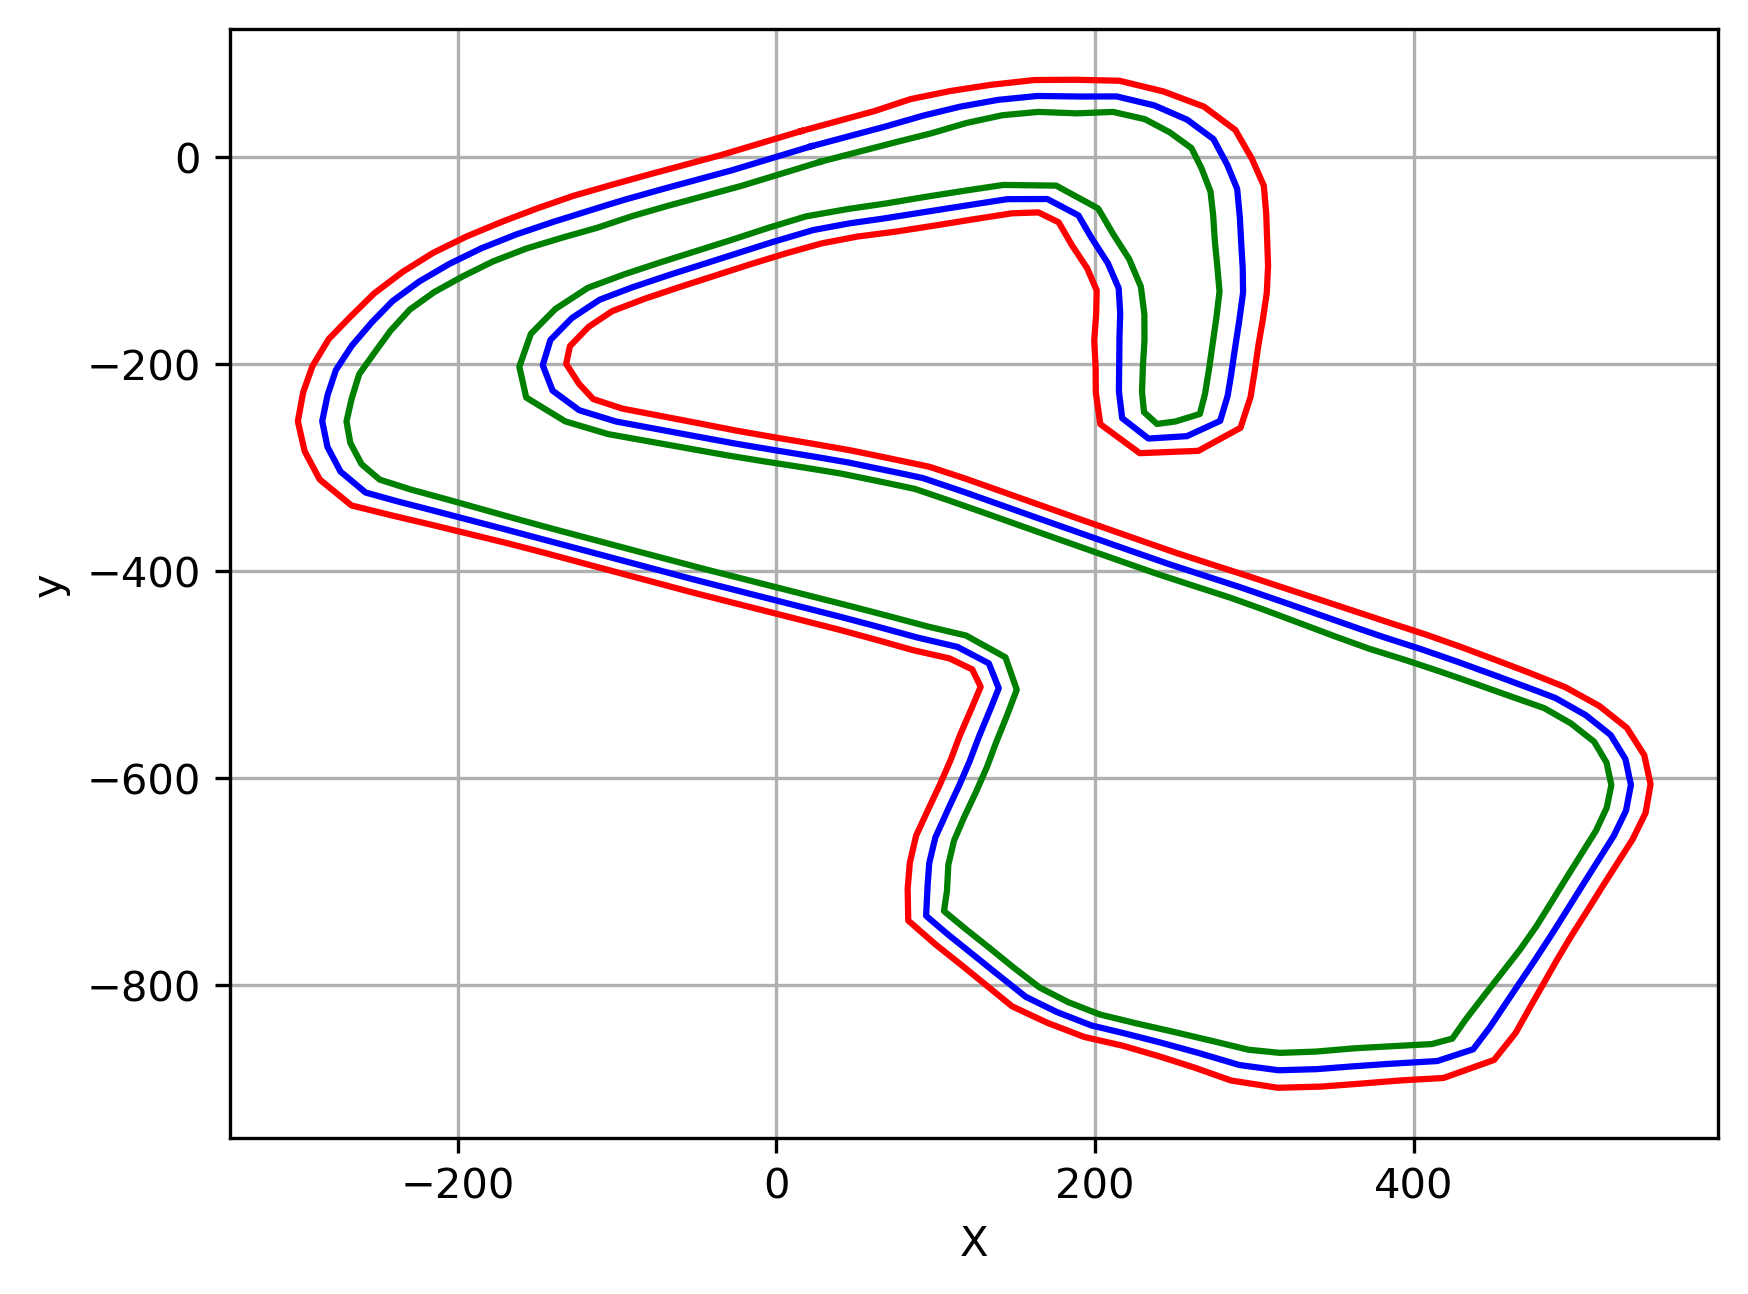
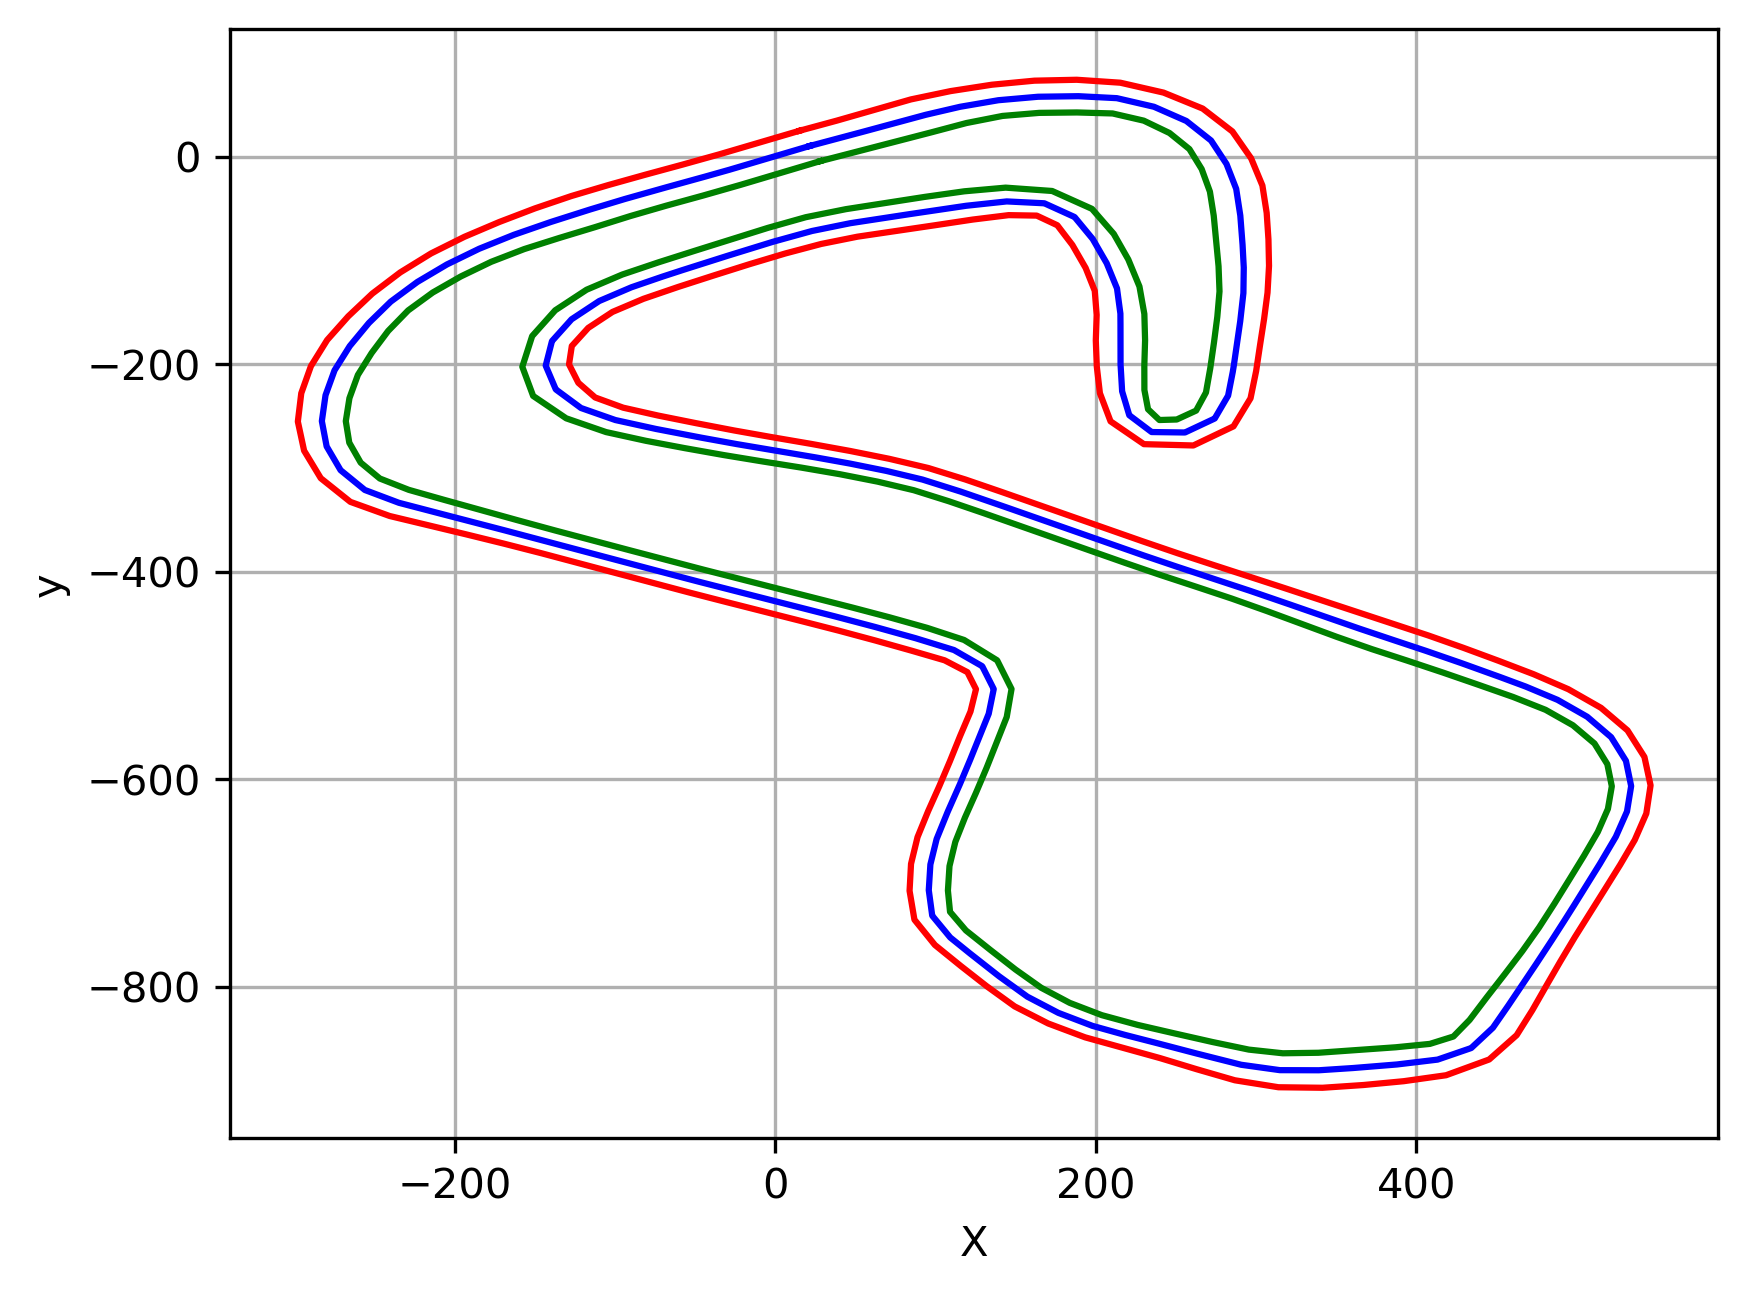
created a smoother plot

diff --git a/basic_subscriber/src/basic_subscriber/subscriber_s.py b/basic_subscriber/src/basic_subscriber/subscriber_s.py
@@ -1,6 +1,7 @@
 import rclpy
 from rclpy.node import Node
 from std_msgs.msg import String
+import math
 import numpy as np
 import matplotlib.pyplot as plt
 import pandas as pd
@@ -34,14 +35,25 @@ class BasicSubscriber(Node):
             for i in range(len(result_x)-1):
                 if result_x[i+1]< result_x[i]:
                     cubic_spliner = interp1d([result_x[i+1],result_x[i]],[result_y[i+1],result_y[i]])
-                    samples = np.linspace(result_x[i+1],result_x[i],101)
-                    x_total = np.concatenate((x_total,samples[::-1]))
-                    y_total = np.concatenate((y_total,cubic_spliner(samples)[::-1]))
-                else:
-                    cubic_spliner = interp1d([result_x[i],result_x[i+1]],[result_y[i],result_y[i+1]])
-                    samples = np.linspace(result_x[i],result_x[i+1],101)
+                    samples = np.linspace(result_x[i+1],result_x[i],101)[::-1][0:100]
                     x_total = np.concatenate((x_total,samples))
                     y_total = np.concatenate((y_total,cubic_spliner(samples)))
+                else:
+                    cubic_spliner = interp1d([result_x[i],result_x[i+1]],[result_y[i],result_y[i+1]])
+                    samples = np.linspace(result_x[i],result_x[i+1],101)[0:100]
+                    x_total = np.concatenate((x_total,samples))
+                    y_total = np.concatenate((y_total,cubic_spliner(samples)))
+                if i>0:
+                    x0 = x_total[100*(i-1)+99]
+                    y0 = y_total[100*(i-1)+99]
+                    x1 = x_total[100*i+1]
+                    y1 = y_total[100*i+1]
+                    x_mid = (x0+x1)/2
+                    y_mid = (y0+y1)/2
+                    x_current = x_total[100*i] 
+                    y_current = y_total[100*i]
+                    x_total[100*i] = (x_mid+x_current)/2
+                    y_total[100*i] = (y_mid+y_current)/2
             plt.plot(self.x_left+[self.x_left[0]],self.y_left+[self.y_left[0]],color='red')
             plt.plot(np.concatenate((x_total,np.array([x_total[0]]))),np.concatenate((y_total,np.array([y_total[0]]))),color="blue")
             plt.plot(self.x_right+[self.x_right[0]],self.y_right+[self.y_right[0]],color="green")

diff --git a/basic_publisher/basic_publisher/publisher_s.py b/basic_publisher/basic_publisher/publisher_s.py
@@ -27,6 +27,17 @@ class BasicPublisher(Node):
         else:
             self.destroy_node()
             rclpy.shutdown()
+def mid(x,y):
+    for i in range(1,len(x)-1):
+        x0 = x[i-1]
+        x1 = x[i+1]
+        y0 = y[i-1]
+        y1 = y[i+1]
+        x_mid = (x0+x1)/2
+        y_mid = (y0+y1)/2
+        x[i] = (x[i]+x_mid)/2
+        y[i] = (y[i]+y_mid)/2
+    return x, y
 def main():
     rclpy.init()
    
@@ -35,8 +46,10 @@ def main():
     x_left = np.array(df['x'][1:157])
     print(len(x_left))
     y_left = np.array(df['y'][1:157])
+    x_left, y_left = mid(x_left,y_left)
     x_right = np.array(df['x'][158:])
     y_right = np.array(df['y'][158:])
+    x_right, y_right = mid(x_right,y_right)
     x = 0.5*(x_left+x_right)
     y = 0.5*(y_left+y_right)
     basic_publisher = BasicPublisher(x,y,x_left,y_left,x_right,y_right)
